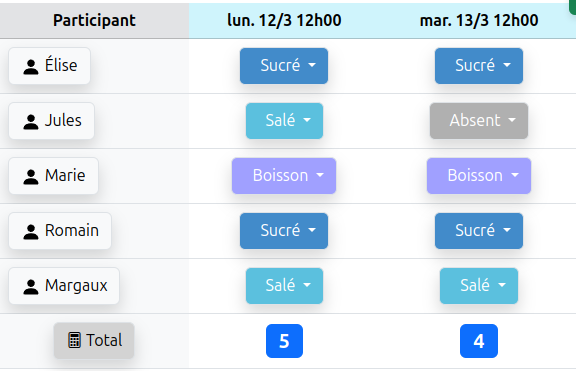
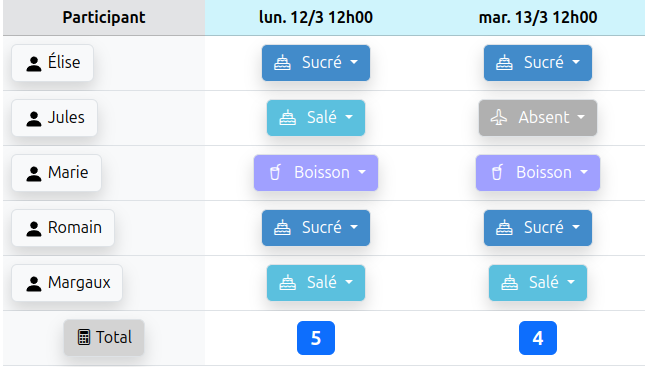
Fix fixtures

diff --git a/src/DataFixtures/AppFixtures.php b/src/DataFixtures/AppFixtures.php
@@ -42,9 +42,9 @@ class AppFixtures extends Fixture
 			],
 		];
 		$choices = [
-			['name' => 'Oui', 'value' => 1, 'color' => 'green', 'priority' => 0, 'icon' => 'ok'],
-			['name' => 'Non', 'value' => 0, 'color' => 'red', 'priority' => 1, 'icon' => 'remove'],
-			['name' => 'Peut-être', 'value' => 0, 'color' => 'gray', 'priority' => 2, 'icon' => 'time'],
+			['name' => 'Oui', 'value' => 1, 'color' => 'green', 'priority' => 0, 'icon' => 'check'],
+			['name' => 'Non', 'value' => 0, 'color' => 'red', 'priority' => 1, 'icon' => 'x'],
+			['name' => 'Peut-être', 'value' => 0, 'color' => 'gray', 'priority' => 2, 'icon' => 'clock'],
 		];
 		$participations = [
 			['who' => 'Aretha', 'when' => 'Répétition', 'choice' => 'Non'],
@@ -108,10 +108,10 @@ class AppFixtures extends Fixture
 			],
 		];
 		$choices = [
-			['name' => 'Sucré', 'value' => 1, 'color' => 'blue', 'priority' => 0, 'icon' => 'cutlery'],
-			['name' => 'Salé', 'value' => 1, 'color' => 'cyan', 'priority' => 1, 'icon' => 'cutlery'],
-			['name' => 'Boisson', 'value' => 1, 'color' => 'purple', 'priority' => 2, 'icon' => 'glass'],
-			['name' => 'Absent', 'value' => 0, 'color' => 'gray', 'priority' => 3, 'icon' => 'plane'],
+			['name' => 'Sucré', 'value' => 1, 'color' => 'blue', 'priority' => 0, 'icon' => 'cake'],
+			['name' => 'Salé', 'value' => 1, 'color' => 'cyan', 'priority' => 1, 'icon' => 'cake'],
+			['name' => 'Boisson', 'value' => 1, 'color' => 'purple', 'priority' => 2, 'icon' => 'cup-straw'],
+			['name' => 'Absent', 'value' => 0, 'color' => 'gray', 'priority' => 3, 'icon' => 'airplane'],
 		];
 		$participations = [
 			['who' => 'Élise', 'when' => 'Date 1', 'choice' => 'Sucré'],
@@ -149,11 +149,11 @@ class AppFixtures extends Fixture
 			['name' => 'Vacances d\'été'],
 		];
 		$choices = [
-			['name' => 'Les Alpes', 'value' => 1, 'color' => 'cyan', 'priority' => 0, 'icon' => 'tree-conifer'],
-			['name' => 'Les Pyrénées', 'value' => 1, 'color' => 'blue', 'priority' => 1, 'icon' => 'tree-conifer'],
-			['name' => 'Les Canaries', 'value' => 1, 'color' => 'orange', 'priority' => 2, 'icon' => 'plane'],
+			['name' => 'Les Alpes', 'value' => 1, 'color' => 'cyan', 'priority' => 0, 'icon' => 'tree'],
+			['name' => 'Les Pyrénées', 'value' => 1, 'color' => 'blue', 'priority' => 1, 'icon' => 'tree'],
+			['name' => 'Les Canaries', 'value' => 1, 'color' => 'orange', 'priority' => 2, 'icon' => 'airplane'],
 			['name' => 'Peu importe', 'value' => 1, 'color' => 'purple', 'priority' => 2, 'icon' => 'globe'],
-			['name' => 'Je ne pars pas', 'value' => 0, 'color' => 'gray', 'priority' => 3, 'icon' => 'home'],
+			['name' => 'Je ne pars pas', 'value' => 0, 'color' => 'gray', 'priority' => 3, 'icon' => 'house'],
 		];
 		$participations = [
 			['who' => 'Jean', 'when' => 'Vacances de février', 'choice' => 'Les Alpes'],
